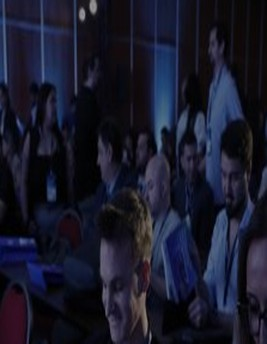
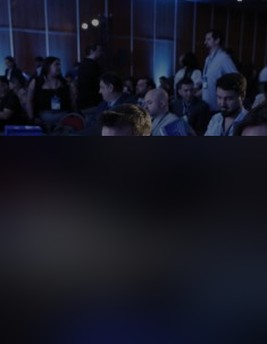
fix: portfolio photo distortion, About video embed error, contact popup layout
Portfolio: the 12 photos added earlier were visibly stretched (a small
text-free region was force-resized ~2.3x to fill the card, distorting
everyone in them) and in Melián's case badly framed (cropped to just
the ceiling/chandelier, missing the people entirely — the crop window
was too conservative about where Figma's baked-in title actually
started). Redid all 12 without any resampling distortion: keep the
full card at its natural ~267x334 proportions (a 1.03x scale to the
267x344 target is imperceptible), gaussian-blur + darken only the
bottom band where the title/category text lives (verified per-card
that the band is wide enough to fully cover even 3-line titles like
"The Mobile First Company"), and trim a few px off each edge first to
drop a rounded-corner artifact from the source screenshot. Same fix
applied to Bybit/Argy's new photos for consistency.

About: the AFF video embed was failing for every visitor (YouTube
error 153 — this specific video's owner has embedding disabled, it's
not fixable from our side). Reverted the hero back to the static photo
it had before. Flagging in the team message that we need either a
video that allows embedding or a direct file, like the Home hero got.

Footer "Get in touch": was rendering as a small card floating in the
middle-right of the viewport. Rebuilt it to match the reference
exactly — the popup now lives *inside* .section-contact itself (which
is already position:relative) sized to the footer's own real height,
[…]

diff --git a/js/main.js b/js/main.js
@@ -215,78 +215,84 @@ function wireContactForm(contactForm) {
 
 wireContactForm(document.getElementById('contact-form'));
 
-// Footer "Get in touch" → abre el mismo formulario como popup en vez de
+// Footer "Get in touch" → el propio footer (.section-contact, a su tamaño
+// real) revela el formulario ahí mismo, anclado a la derecha, en vez de
 // navegar a /contact.html (excepto en la propia página de contacto, donde
 // el formulario completo ya está a la vista).
+const footerSection = document.querySelector('.section-contact');
 const contactTriggers = Array.from(document.querySelectorAll('.contact-btn'))
   .filter(btn => !document.body.classList.contains('page-contact'));
 
-if (contactTriggers.length) {
-  const modalOverlay = document.createElement('div');
-  modalOverlay.className = 'contact-modal-overlay';
-  modalOverlay.id = 'contact-modal-overlay';
-  modalOverlay.hidden = true;
-  modalOverlay.innerHTML = `
-    <div class="contact-modal" role="dialog" aria-modal="true" aria-labelledby="contact-modal-title">
-      <button type="button" class="contact-modal-close">close</button>
-      <h2 id="contact-modal-title" class="contact-modal-title">¿Tenés un proyecto en mente?</h2>
-      <form class="contact-form" id="contact-modal-form" novalidate>
-        <fieldset class="contact-reasons">
-          <legend class="sr-only">Motivo de contacto</legend>
-          <label class="contact-radio">
-            <input type="radio" name="reason" value="Nuevos negocios" checked>
-            <span class="contact-radio-dot" aria-hidden="true"></span>
-            Nuevos negocios
-          </label>
-          <label class="contact-radio">
-            <input type="radio" name="reason" value="Consultas de prensa">
-            <span class="contact-radio-dot" aria-hidden="true"></span>
-            Consultas de prensa
-          </label>
-          <label class="contact-radio">
-            <input type="radio" name="reason" value="Todo lo demás">
-            <span class="contact-radio-dot" aria-hidden="true"></span>
-            Todo lo demás
-          </label>
-        </fieldset>
+if (contactTriggers.length && footerSection) {
+  const dimOverlay = document.createElement('div');
+  dimOverlay.className = 'contact-dim-overlay';
+  dimOverlay.hidden = true;
+  document.body.appendChild(dimOverlay);
 
-        <a href="contact.html#equipo" class="contact-jobs-link">¿Buscás oportunidades laborales?</a>
+  const modalPanel = document.createElement('div');
+  modalPanel.className = 'contact-modal';
+  modalPanel.hidden = true;
+  modalPanel.setAttribute('role', 'dialog');
+  modalPanel.setAttribute('aria-modal', 'true');
+  modalPanel.setAttribute('aria-labelledby', 'contact-modal-title');
+  modalPanel.innerHTML = `
+    <button type="button" class="contact-modal-close">close</button>
+    <h2 id="contact-modal-title" class="contact-modal-title">¿Tenés un proyecto en mente?</h2>
+    <form class="contact-form" id="contact-modal-form" novalidate>
+      <fieldset class="contact-reasons">
+        <legend class="sr-only">Motivo de contacto</legend>
+        <label class="contact-radio">
+          <input type="radio" name="reason" value="Nuevos negocios" checked>
+          <span class="contact-radio-dot" aria-hidden="true"></span>
+          Nuevos negocios
+        </label>
+        <label class="contact-radio">
+          <input type="radio" name="reason" value="Consultas de prensa">
+          <span class="contact-radio-dot" aria-hidden="true"></span>
+          Consultas de prensa
+        </label>
+        <label class="contact-radio">
+          <input type="radio" name="reason" value="Todo lo demás">
+          <span class="contact-radio-dot" aria-hidden="true"></span>
+          Todo lo demás
+        </label>
+      </fieldset>
 
-        <p class="contact-form-hint">Dejanos tus datos para que podamos contactarte. Respondemos en menos de 48 hs.</p>
+      <a href="contact.html#equipo" class="contact-jobs-link">¿Buscás oportunidades laborales?</a>
 
-        <div class="contact-form-fields">
-          <div class="contact-field">
-            <label for="cfm-name">Nombre y apellido</label>
-            <input type="text" name="name" id="cfm-name" autocomplete="name" required>
-          </div>
-          <div class="contact-field">
-            <label for="cfm-email">Email</label>
-            <input type="email" name="email" id="cfm-email" autocomplete="email" required>
-          </div>
-          <div class="contact-field">
-            <label for="cfm-message">Mensaje</label>
-            <textarea name="message" id="cfm-message" rows="3" placeholder="Contanos sobre tu proyecto" required></textarea>
-          </div>
+      <p class="contact-form-hint">Dejanos tus datos para que podamos contactarte. Respondemos en menos de 48 hs.</p>
+
+      <div class="contact-form-fields">
+        <div class="contact-field">
+          <label for="cfm-name">Nombre y apellido</label>
+          <input type="text" name="name" id="cfm-name" autocomplete="name" required>
         </div>
+        <div class="contact-field">
+          <label for="cfm-email">Email</label>
+          <input type="email" name="email" id="cfm-email" autocomplete="email" required>
+        </div>
+        <div class="contact-field">
+          <label for="cfm-message">Mensaje</label>
+          <textarea name="message" id="cfm-message" rows="3" placeholder="Contanos sobre tu proyecto" required></textarea>
+        </div>
+      </div>
 
-        <p class="contact-form-note">Al enviar se abre tu cliente de correo con estos datos ya completados.</p>
+      <p class="contact-form-note">Al enviar se abre tu cliente de correo con estos datos ya completados.</p>
 
-        <button type="submit" class="contact-submit">
-          Enviar
-          <svg width="12" height="12" viewBox="0 0 12 12" fill="none" aria-hidden="true">
-            <path d="M3 9L9 3M9 3H4.5M9 3V7.5" stroke="#15141D" stroke-width="1" stroke-linecap="round" stroke-linejoin="round"/>
-          </svg>
-        </button>
+      <button type="submit" class="contact-submit">
+        Enviar
+        <svg width="12" height="12" viewBox="0 0 12 12" fill="none" aria-hidden="true">
+          <path d="M3 9L9 3M9 3H4.5M9 3V7.5" stroke="#15141D" stroke-width="1" stroke-linecap="round" stroke-linejoin="round"/>
+        </svg>
+      </button>
 
-        <p class="contact-form-status" role="status" aria-live="polite"></p>
-      </form>
-    </div>
+      <p class="contact-form-status" role="status" aria-live="polite"></p>
+    </form>
   `;
-  document.body.appendChild(modalOverlay);
+  footerSection.appendChild(modalPanel);
   wireContactForm(document.getElementById('contact-modal-form'));
 
-  const modalPanel = modalOverlay.querySelector('.contact-modal');
-  const closeBtn = modalOverlay.querySelector('.contact-modal-close');
+  const closeBtn = modalPanel.querySelector('.contact-modal-close');
   let lastFocusedEl = null;
 
   const onModalKeydown = (e) => {
@@ -310,15 +316,16 @@ if (contactTriggers.length) {
 
   function openContactModal() {
     lastFocusedEl = document.activeElement;
-    modalOverlay.hidden = false;
-    document.body.style.overflow = 'hidden';
+    dimOverlay.hidden = false;
+    modalPanel.hidden = false;
+    footerSection.scrollIntoView({ behavior: 'smooth', block: 'center' });
     closeBtn.focus();
     document.addEventListener('keydown', onModalKeydown);
   }
 
   function closeContactModal() {
-    modalOverlay.hidden = true;
-    document.body.style.overflow = '';
+    dimOverlay.hidden = true;
+    modalPanel.hidden = true;
     document.removeEventListener('keydown', onModalKeydown);
     if (lastFocusedEl) lastFocusedEl.focus();
   }
@@ -331,7 +338,5 @@ if (contactTriggers.length) {
   });
 
   closeBtn.addEventListener('click', closeContactModal);
-  modalOverlay.addEventListener('click', (e) => {
-    if (e.target === modalOverlay) closeContactModal();
-  });
+  dimOverlay.addEventListener('click', closeContactModal);
 }

diff --git a/css/style.css b/css/style.css
@@ -1125,6 +1125,14 @@ a.scard {
   letter-spacing: 0.05em;
 }
 
+.contact-location {
+  font-family: 'Clash Grotesk', sans-serif;
+  font-weight: 400;
+  font-size: 13px;
+  color: rgba(255, 255, 255, 0.6);
+  margin: 0;
+}
+
 /* Figma: Rectangle 25 — width:167px, height:33px, left:122px, top:4827px, bg:#15141D, border:0.5px solid white, border-radius:27px */
 /* Figma: "Get in touch" — left:138px (padding-left:16px), top:4816px, 20px, white */
 /* Figma: Vector 10 — left:257px (right side of button), 12×12px, circle+arrow, white */
@@ -1407,23 +1415,9 @@ a.scard {
 .about-hero-bg {
   position: absolute;
   inset: 0;
-  overflow: hidden;
+  background-size: cover;
+  background-position: center 30%;
   opacity: 0.7;
-  pointer-events: none;
-}
-
-/* Cubre el contenedor con el iframe de YouTube manteniendo 16:9 —
-   funciona tanto si el ancho como si el alto del hero es el lado más restrictivo. */
-.about-hero-bg iframe {
-  position: absolute;
-  top: 50%;
-  left: 50%;
-  width: 100vw;
-  height: 56.25vw;
-  min-width: 177.78vh;
-  min-height: 100%;
-  transform: translate(-50%, -50%);
-  border: 0;
 }
 
 .about-hero-gradient {
@@ -2019,33 +2013,38 @@ a.scard {
 }
 
 /* ---- CONTACT MODAL (footer "Get in touch") ---- */
-/* Referencia: popup claro sobre overlay oscuro, con el mismo formulario
-   que /contact.html pero en versión clara (fondo blanco, texto oscuro). */
-.contact-modal-overlay {
+/* Referencia: el propio footer (a su tamaño real, no un card flotante en el
+   centro de la pantalla) se convierte en el formulario claro. El resto de la
+   página por encima se atenúa con un overlay fijo; el panel del formulario
+   vive DENTRO de .section-contact (que ya es position:relative), anclado a
+   la derecha y ocupando toda su altura, dejando "CONTACT US" visible a la
+   izquierda tal como en la referencia. */
+.contact-dim-overlay {
   position: fixed;
   inset: 0;
-  z-index: 200;
-  background: rgba(21, 20, 29, 0.7);
-  display: flex;
-  align-items: center;
-  justify-content: flex-end;
-  padding: 40px;
+  z-index: 150;
+  background: rgba(21, 20, 29, 0.55);
 }
 
-.contact-modal-overlay[hidden] {
+.contact-dim-overlay[hidden] {
   display: none;
 }
 
 .contact-modal {
-  position: relative;
+  position: absolute;
+  top: 0;
+  right: 0;
+  bottom: 0;
+  z-index: 160;
   background: #F5F3EF;
   color: #15141D;
-  width: 100%;
-  max-width: 480px;
-  max-height: calc(100vh - 80px);
+  width: min(480px, 100%);
   overflow-y: auto;
-  border-radius: 4px;
   padding: 56px 48px 48px;
+}
+
+.contact-modal[hidden] {
+  display: none;
 }
 
 .contact-modal-close {
@@ -2119,15 +2118,8 @@ a.scard {
 }
 
 @media (max-width: 600px) {
-  .contact-modal-overlay {
-    padding: 0;
-    align-items: stretch;
-  }
-
   .contact-modal {
-    max-width: none;
-    max-height: 100vh;
-    border-radius: 0;
+    width: 100%;
     padding: 56px 24px 40px;
   }
 }

diff --git a/about.html b/about.html
@@ -51,16 +51,7 @@
 
     <!-- HERO -->
     <section class="about-hero">
-      <div class="about-hero-bg" style="background-image:url('images/about/hero-about.jpg'); background-size:cover; background-position:center 30%;">
-        <iframe
-          src="https://www.youtube-nocookie.com/embed/8us5HT1qG9M?autoplay=1&mute=1&loop=1&playlist=8us5HT1qG9M&controls=0&showinfo=0&rel=0&modestbranding=1&playsinline=1&disablekb=1"
-          title="Video de fondo — Reality OTR en el Argentina Fintech Forum"
-          aria-hidden="true"
-          tabindex="-1"
-          allow="autoplay; encrypted-media"
-          frameborder="0"
-        ></iframe>
-      </div>
+      <div class="about-hero-bg" style="background-image:url('images/about/hero-about.jpg');"></div>
       <div class="about-hero-gradient"></div>
       <div class="about-hero-inner">
         <h1 class="about-hero-title">Somos <span>On The Rocks</span></h1>
@@ -221,6 +212,7 @@
     <div class="contact-inner">
       <div class="contact-left">
         <p class="contact-label">CONTACT US</p>
+        <p class="contact-location">Buenos Aires, Argentina.</p>
         <a href="contact.html" class="contact-btn">
           Get in touch
           <svg width="12" height="12" viewBox="0 0 12 12" fill="none">

diff --git a/index.html b/index.html
@@ -383,6 +383,7 @@
       <!-- Figma: Vector 10 (arrow icon) — left:257px, top:4838px (offset:145px), 12×12px, border:1px solid white -->
       <div class="contact-left">
         <p class="contact-label">CONTACT US</p>
+        <p class="contact-location">Buenos Aires, Argentina.</p>
         <a href="contact.html" class="contact-btn">
           Get in touch
           <!-- Figma: Vector 10 — diagonal arrow, no circle -->

diff --git a/portfolio.html b/portfolio.html
@@ -213,6 +213,7 @@
     <div class="contact-inner">
       <div class="contact-left">
         <p class="contact-label">CONTACT US</p>
+        <p class="contact-location">Buenos Aires, Argentina.</p>
         <a href="contact.html" class="contact-btn">
           Get in touch
           <svg width="12" height="12" viewBox="0 0 12 12" fill="none">

diff --git a/service.html b/service.html
@@ -170,6 +170,7 @@
     <div class="contact-inner">
       <div class="contact-left">
         <p class="contact-label">CONTACT US</p>
+        <p class="contact-location">Buenos Aires, Argentina.</p>
         <a href="contact.html" class="contact-btn">
           Get in touch
           <svg width="12" height="12" viewBox="0 0 12 12" fill="none">

diff --git a/blog.html b/blog.html
@@ -72,6 +72,7 @@
     <div class="contact-inner">
       <div class="contact-left">
         <p class="contact-label">CONTACT US</p>
+        <p class="contact-location">Buenos Aires, Argentina.</p>
         <a href="contact.html" class="contact-btn">
           Get in touch
           <svg width="12" height="12" viewBox="0 0 12 12" fill="none">

diff --git a/cookie-policy.html b/cookie-policy.html
@@ -82,6 +82,7 @@
     <div class="contact-inner">
       <div class="contact-left">
         <p class="contact-label">CONTACT US</p>
+        <p class="contact-location">Buenos Aires, Argentina.</p>
         <a href="contact.html" class="contact-btn">
           Get in touch
           <svg width="12" height="12" viewBox="0 0 12 12" fill="none">

diff --git a/portfolio-aff.html b/portfolio-aff.html
@@ -76,6 +76,7 @@
     <div class="contact-inner">
       <div class="contact-left">
         <p class="contact-label">CONTACT US</p>
+        <p class="contact-location">Buenos Aires, Argentina.</p>
         <a href="contact.html" class="contact-btn">
           Get in touch
           <svg width="12" height="12" viewBox="0 0 12 12" fill="none">

diff --git a/portfolio-argy.html b/portfolio-argy.html
@@ -70,6 +70,7 @@
     <div class="contact-inner">
       <div class="contact-left">
         <p class="contact-label">CONTACT US</p>
+        <p class="contact-location">Buenos Aires, Argentina.</p>
         <a href="contact.html" class="contact-btn">
           Get in touch
           <svg width="12" height="12" viewBox="0 0 12 12" fill="none">

diff --git a/portfolio-bybit.html b/portfolio-bybit.html
@@ -84,6 +84,7 @@
     <div class="contact-inner">
       <div class="contact-left">
         <p class="contact-label">CONTACT US</p>
+        <p class="contact-location">Buenos Aires, Argentina.</p>
         <a href="contact.html" class="contact-btn">
           Get in touch
           <svg width="12" height="12" viewBox="0 0 12 12" fill="none">

diff --git a/portfolio-camara-fintech-branding.html b/portfolio-camara-fintech-branding.html
@@ -83,6 +83,7 @@
     <div class="contact-inner">
       <div class="contact-left">
         <p class="contact-label">CONTACT US</p>
+        <p class="contact-location">Buenos Aires, Argentina.</p>
         <a href="contact.html" class="contact-btn">
           Get in touch
           <svg width="12" height="12" viewBox="0 0 12 12" fill="none">
